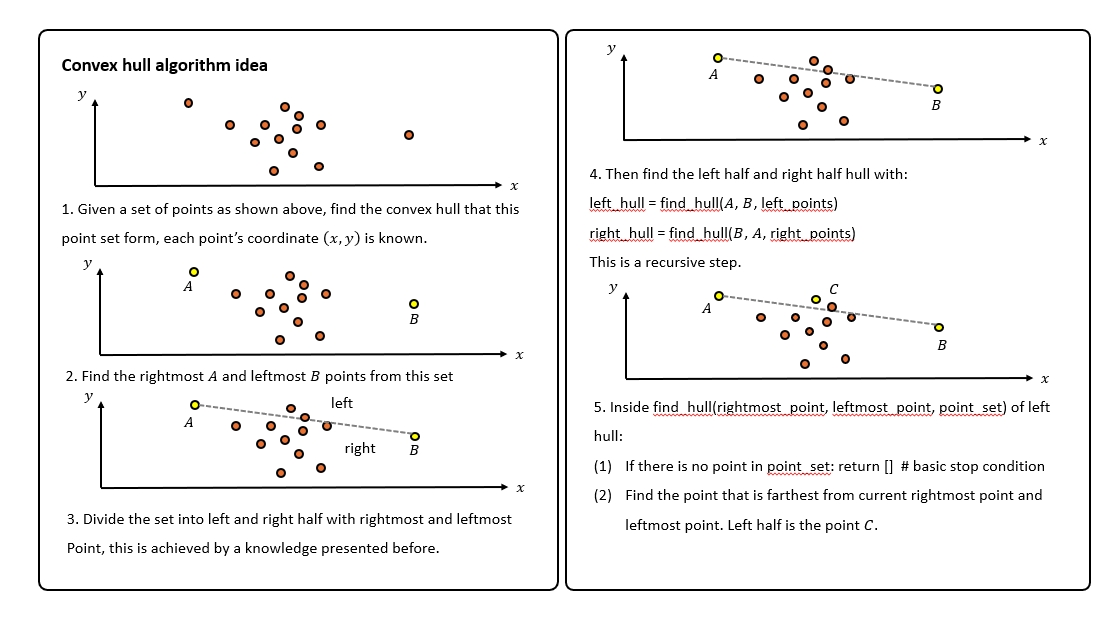
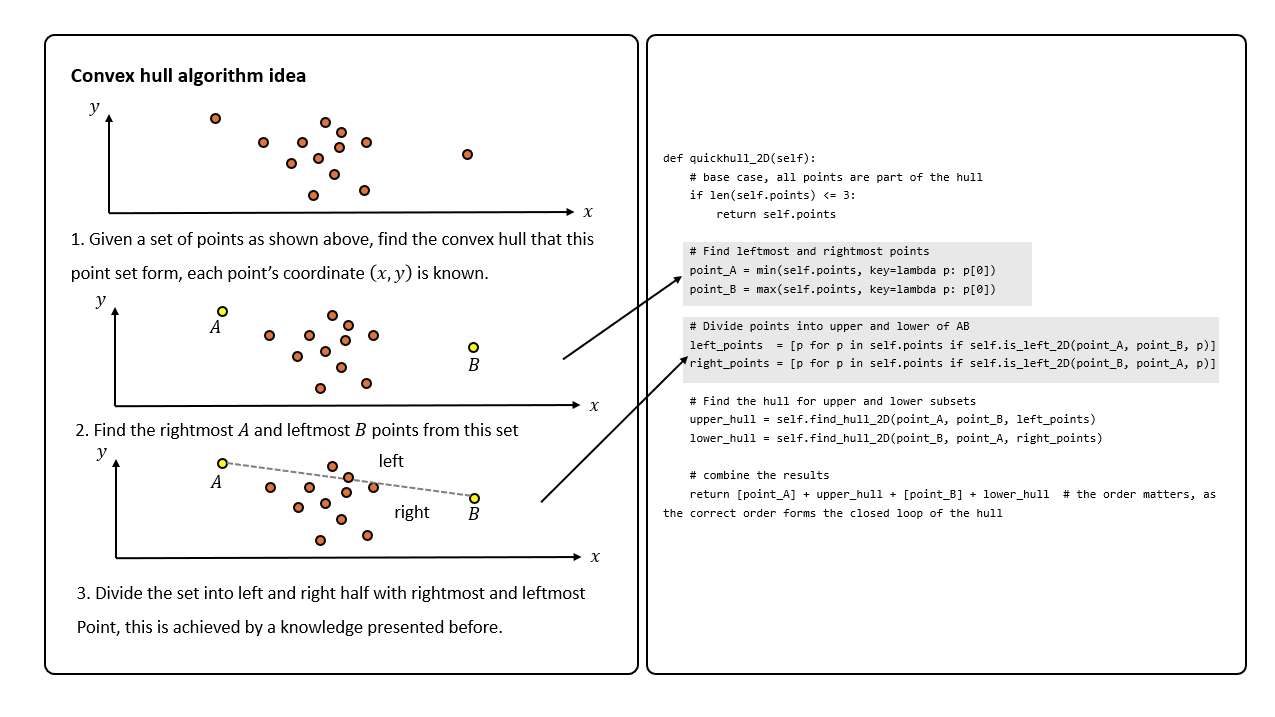
commit changes

diff --git a/README.md b/README.md
@@ -11,8 +11,8 @@ Also a quick tip in finding `min` points by components in the list:
 ```python
 # suppose there is a list of points, each point in (x, y) format:
 number = [(3, 2), (8, 1), (10, 6)]
-smallest_x_number = min(number, key=lambda p: p[0]);
-smallest_y_number = min(number, key=lambda p: p[1]);
+smallest_x_number = min(number, key=lambda p: p[0])
+smallest_y_number = min(number, key=lambda p: p[1])
 
 print("The smallest x number is:", smallest_x_number)  # expected output: (3, 2)
 print("The smallest y number is:", smallest_y_number)  # expected output: (8, 1)
@@ -29,3 +29,10 @@ As for 3D convex hull problem, some geometry problems should be known before div
 ![The way to form a plane equation with 3 points $P_1$, $P_2$ and $P_3$](images/how_to_form_a_plane_with_3_points.png)
 2. How to find the distance from a point to a plane:
 ![The way to find the distance between a point $P$ and a plane $\alpha$](images/find_distance_from_point_to_a_plane.png)
+
+Then here comes the overall idea of convex hull algorithm:
+![Convex hull algorithm step 1](images/convex_hull_1.png)
+![Convex hull algorithm step 2](images/convex_hull_2.png)
+![Convex hull algorithm step 3](images/convex_hull_3.png)
+![Convex hull algorithm step 4](images/convex_hull_4.png)
+![Convex hull algorithm step 5](images/convex_hull_5.png)
